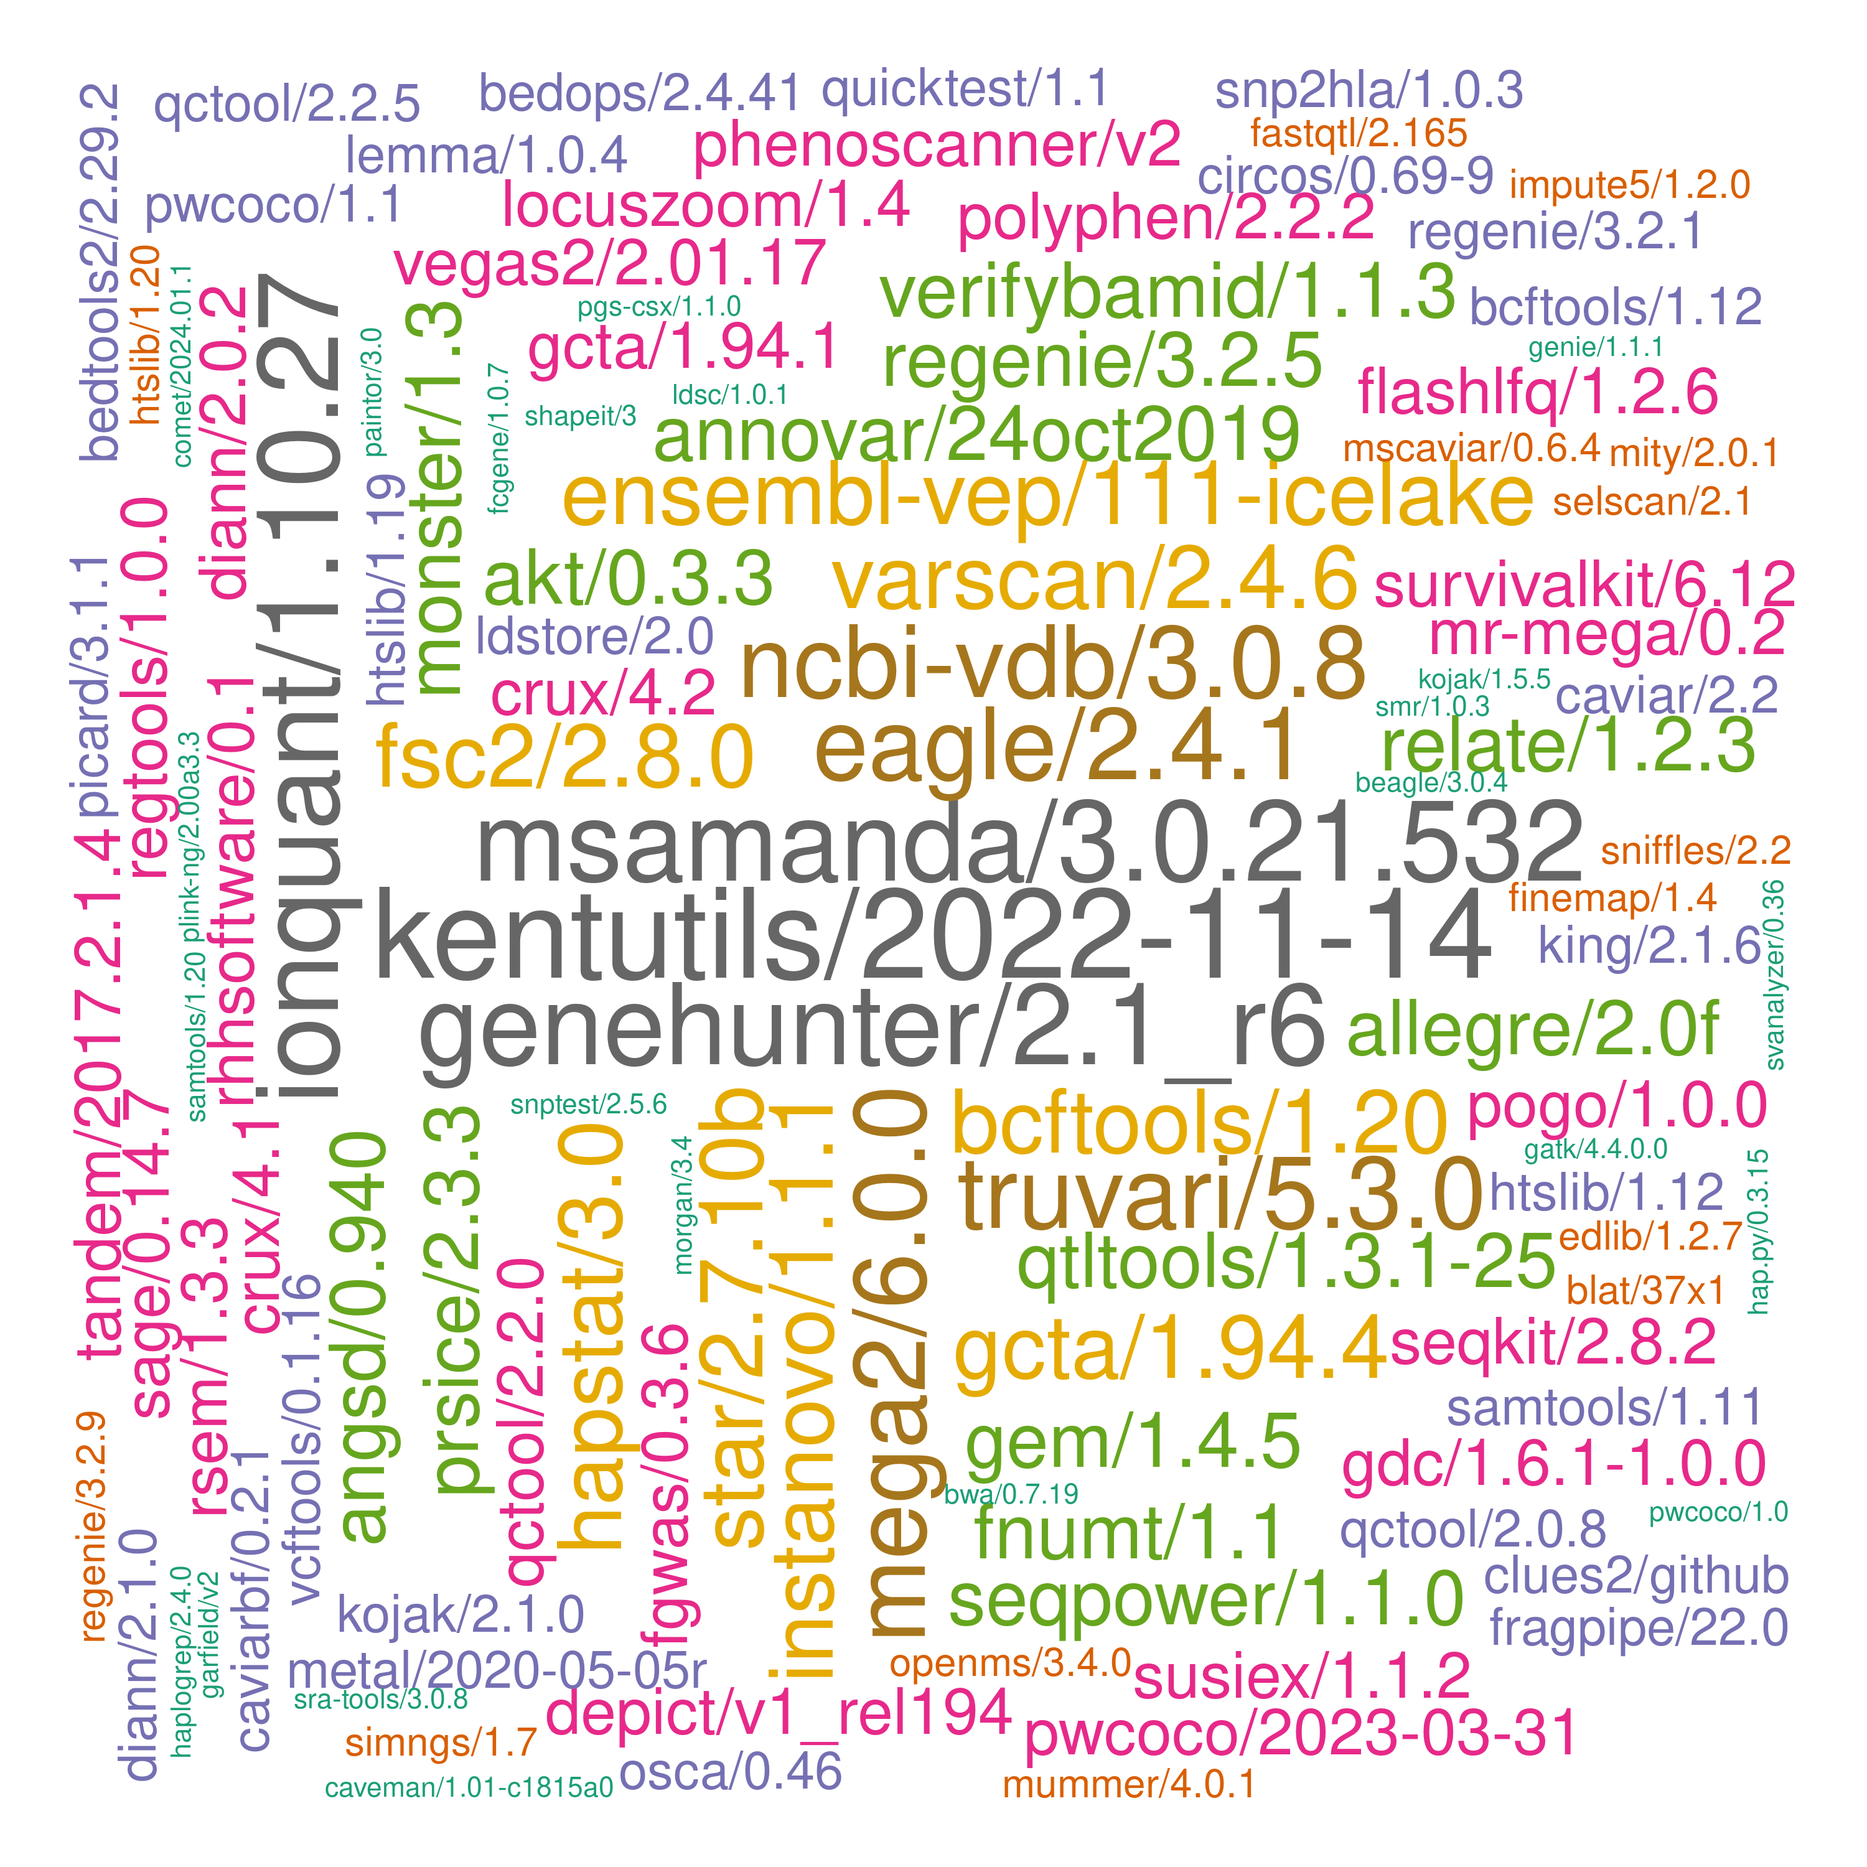
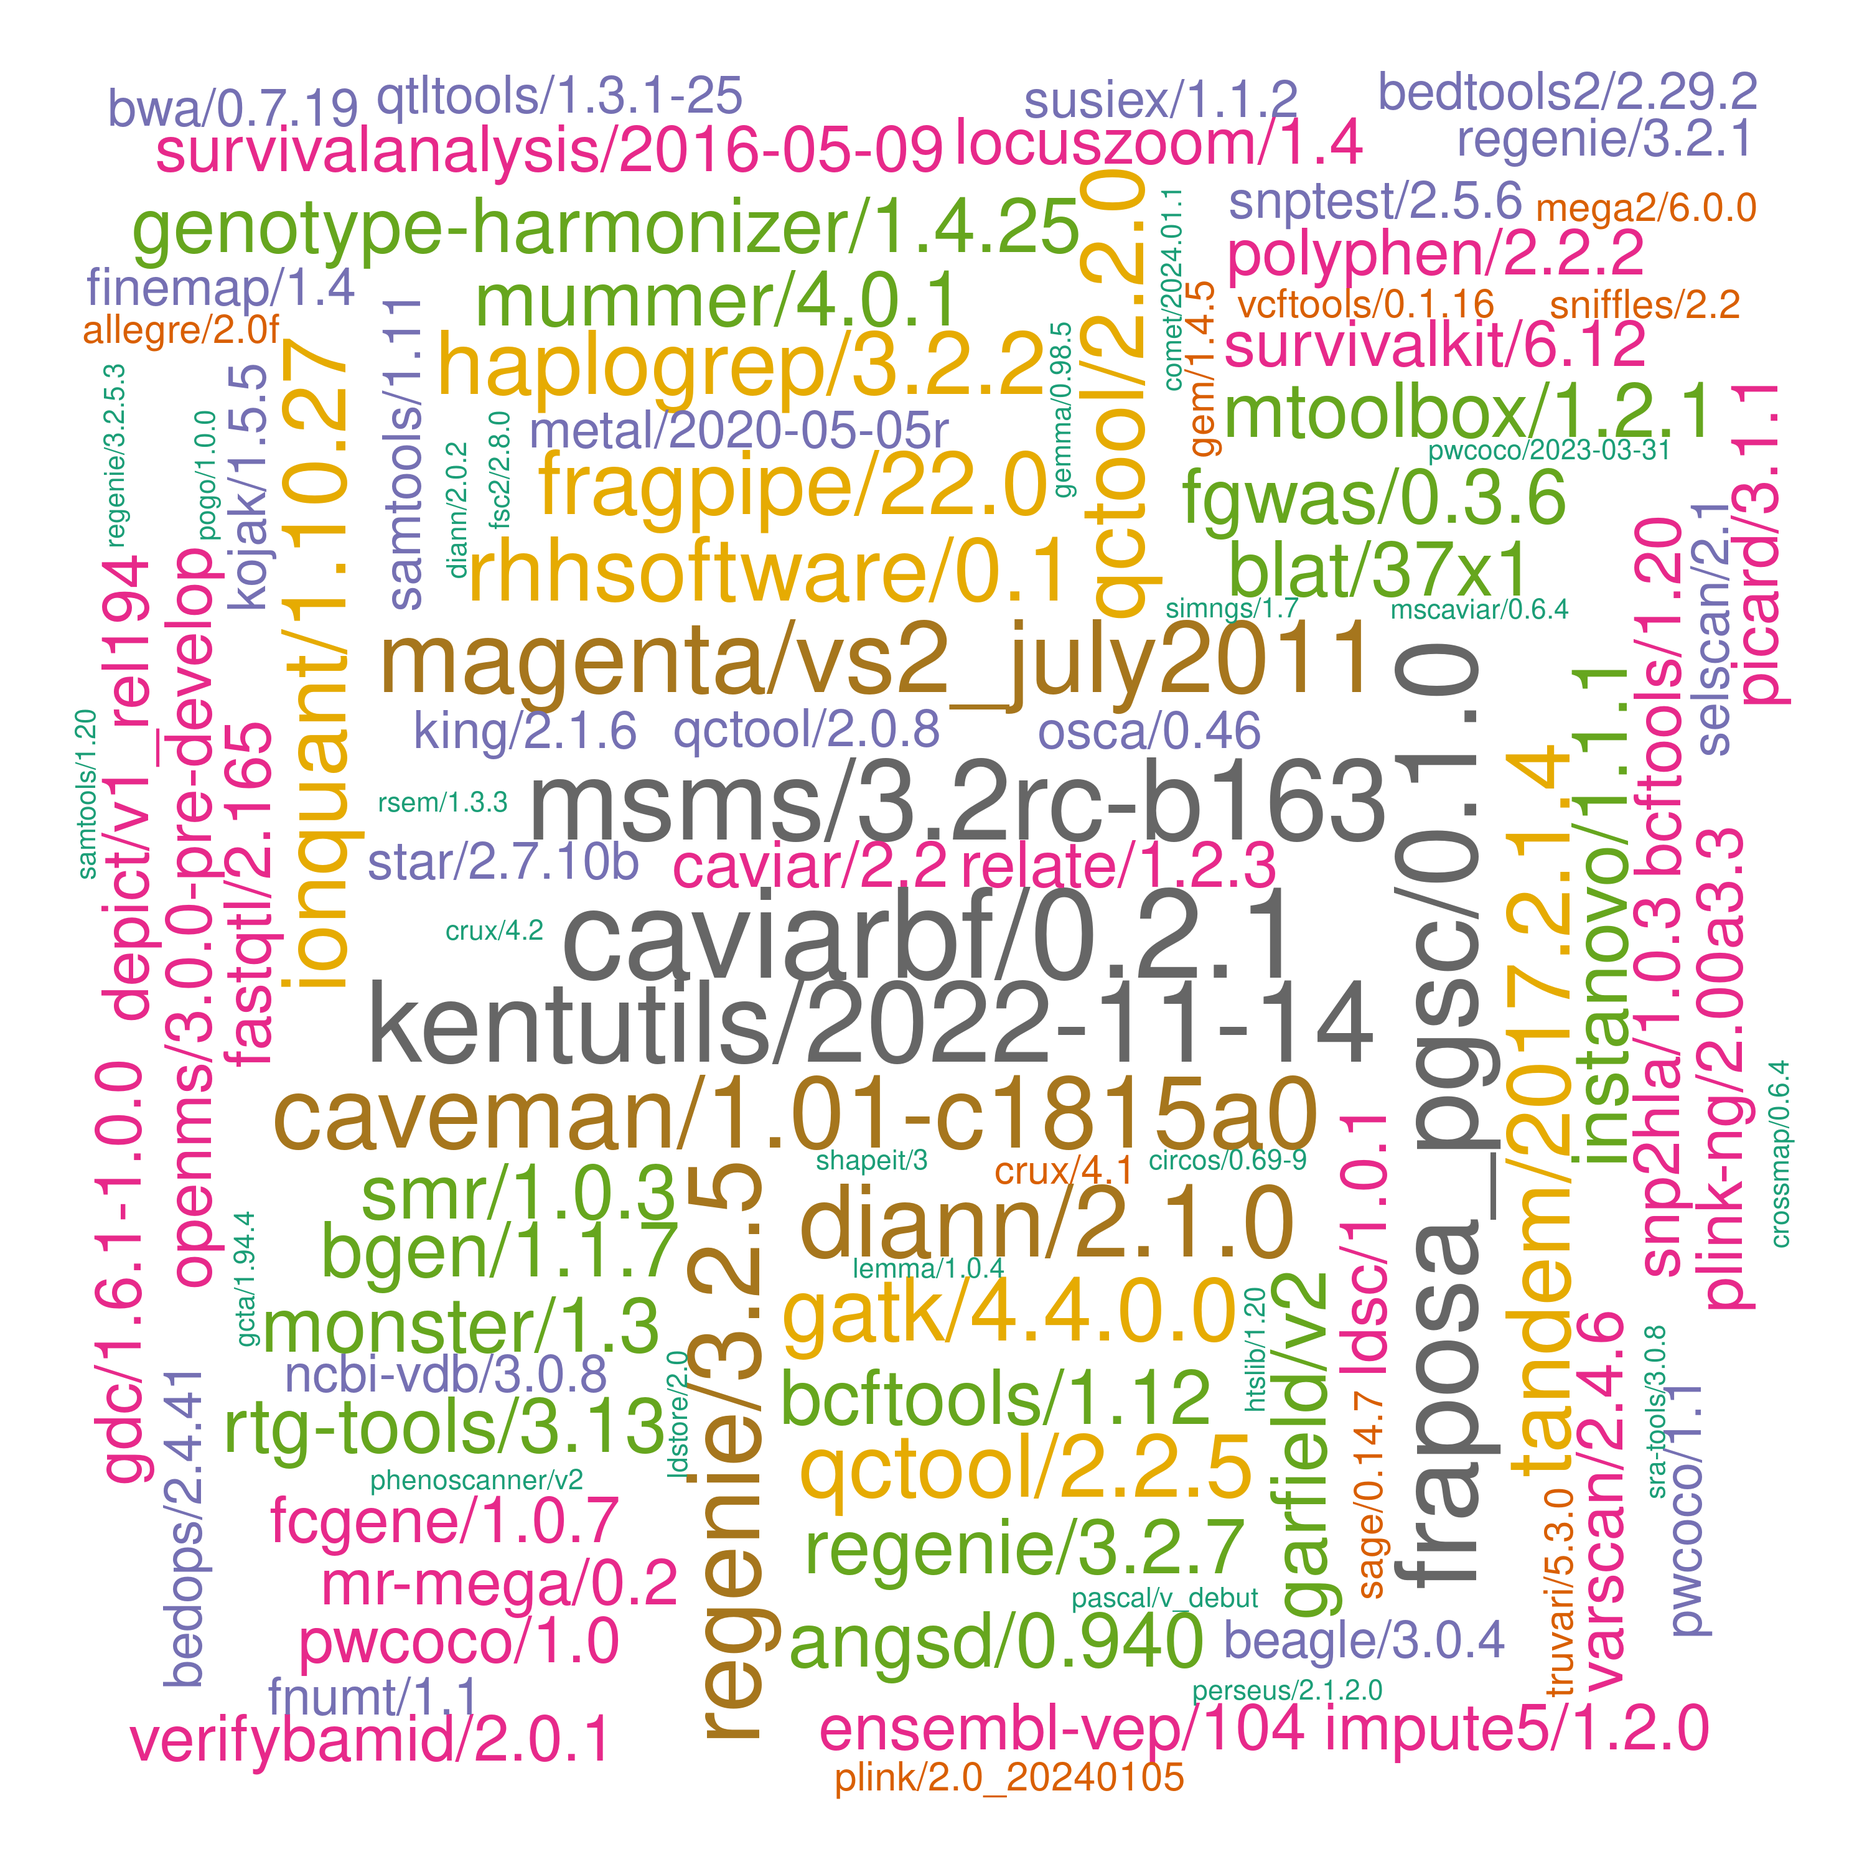
./

Changed region(s): [[0.031, 0.031, 0.961, 0.961]]

diff --git a/systems/ceuadmin.md b/systems/ceuadmin.md
@@ -39,71 +39,71 @@ The current list is as follows,
  [85] "FlashLFQ"               "flashpca"               "fly"                    "fNUMT"
  [89] "fossil"                 "fpc"                    "FragPipe"               "fraposa_pgsc"
  [93] "freesurfer"             "fribidi"                "fsc2"                   "GARFIELD"
- [97] "gatk"                   "gcc-toolset"            "gcta"                   "gdal"
-[101] "gdc"                    "geany"                  "GEM"                    "GEMMA"
-[105] "GENIE"                  "Genotype-Harmonizer"    "geos"                   "gettext"
-[109] "gh"                     "ghc"                    "ghostscript"            "git"
-[113] "git-extras"             "GitKraken"              "git-lfs"                "glib"
-[117] "glibc"                  "globusconnectpersonal"  "glpk"                   "gmp"
-[121] "gnutls"                 "go"                     "googletest"             "graphene"
-[125] "GraphicsMagick"         "GreenAlgorithms4HPC"    "gsl"                    "gsutil"
-[129] "gtk+"                   "gtksourceview"          "gtool"                  "haplogrep"
-[133] "hap.py"                 "hapstat"                "hivex"                  "hpg"
-[137] "htslib"                 "hunspell"               "icu"                    "ImageJ"
-[141] "ImageMagick"            "impute"                 "impute5"                "inetutils"
-[145] "InstaNovo"              "IonQuant"               "JabRef"                 "JAGS"
-[149] "jasper"                 "jbig2enc"               "jq"                     "json-c"
-[153] "KentUtils"              "KING"                   "kojak"                  "krb5"
-[157] "lapack"                 "ldc2"                   "ldsc"                   "LDstore"
-[161] "LEMMA"                  "leptonica"              "lib64"                  "libarchive"
-[165] "libcares"               "libgcrypt"              "libgeotiff"             "libgit2"
-[169] "libglvnd"               "libiconv"               "libidn2"                "libjpeg-turbo"
-[173] "libntlm"                "libpng"                 "libseccomp"             "libsodium"
-[177] "libssh"                 "libssh2"                "libuv"                  "libxml2"
-[181] "libxslt"                "linux"                  "llama.cpp"              "llm"
-[185] "locuszoom"              "LVM2"                   "MAGENTA"                "magma"
-[189] "Mango"                  "MaxQuant"               "Mega2"                  "metal"
-[193] "MetaMorpheus"           "micromamba"             "Miniconda3"             "miniforge3"
-[197] "mitoscape"              "mity"                   "MONSTER"                "MORGAN"
-[201] "MR-MEGA"                "msamanda"               "MsCAVIAR"               "MSFragger"
-[205] "MS-GF+"                 "msms"                   "MToolBox"               "MUMmer"
-[209] "nano"                   "nasm"                   "ncbi-vdb"               "ncurses"
-[213] "netbeans"               "nettle"                 "nextflow"               "nginx"
-[217] "NLopt"                  "node"                   "nspr"                   "ntlm"
-[221] "NUMTFinder"             "ocaml"                  "ollama"                 "oniguruma"
-[225] "opam"                   "openjdk"                "OpenMS"                 "openssh"
-[229] "openssl"                "osca"                   "p7zip-zstd"             "PAINTOR"
-[233] "pandoc"                 "pandoc-citeproc"        "pango"                  "parallel"
-[237] "Pascal"                 "patchelf"               "pcre2"                  "pdf2djvu"
-[241] "pdfjam"                 "peer"                   "Perseus"                "pgsc_calc"
-[245] "PGS-CSx"                "phenoscanner"           "PhySO"                  "picard"
-[249] "pigz"                   "pkg-config"             "plink"                  "plink-bgi"
-[253] "plinkseq"               "pngquant"               "podman"                 "PoGo"
-[257] "polyphen"               "poppler"                "popt"                   "proj"
-[261] "PRSice"                 "pspp"                   "pulsar"                 "PWCoCo"
-[265] "pwiz"                   "python"                 "qctool"                 "qemu"
-[269] "qpdf"                   "qt"                     "qtcreator"              "QTLtools"
-[273] "quarto"                 "quicktest"              "R"                      "raremetal"
-[277] "rclone"                 "readline"               "regenie"                "regtools"
-[281] "relate"                 "RHHsoftware"            "RSEM"                   "rst2pdf"
-[285] "rstudio"                "rtg-tools"              "rtmpdump"               "ruby"
-[289] "rust"                   "sage"                   "samtools"               "Scala"
-[293] "scGPT"                  "scl-utils"              "selscan"                "seqkit"
-[297] "SEQPower"               "shapeit"                "shapeit5"               "simNGS"
-[301] "singularity"            "SMR"                    "snakemake"              "sniffles"
-[305] "SNP2HLA"                "snptest"                "spread-sheet-widget"    "spyder"
-[309] "sqlite"                 "sra-tools"              "sshpass"                "ssw"
-[313] "STAR"                   "stata"                  "SurvivalAnalysis"       "SurvivalKit"
-[317] "SuSiEx"                 "SVanalyzer"             "Swift"                  "SYMPHONY"
-[321] "Synapse"                "tabix"                  "tandem"                 "tatami"
-[325] "tesseract"              "texinfo"                "ThermoRawFileParser"    "ThermoRawFileParserGUI"
-[329] "thunderbird"            "tidy"                   "tiff"                   "trinculo"
-[333] "trousers"               "truvari"                "Typora"                 "unbound"
-[337] "uv"                     "vala"                   "VarScan"                "vcftools"
-[341] "vdo"                    "VEGAS2"                 "verifyBamID"            "VirtualBox"
-[345] "VSCode"                 "VSCodium"               "vte"                    "Windsurf"
-[349] "wine"                   "wrk"                    "xpdf"                   "yaml-cpp"
-[353] "Zettlr"                 "Zotero"                 "zstd"
+ [97] "gatk"                   "gcc"                    "gcc-toolset"            "gcta"
+[101] "gdal"                   "gdc"                    "geany"                  "GEM"
+[105] "GEMMA"                  "GENIE"                  "Genotype-Harmonizer"    "geos"
+[109] "gettext"                "gh"                     "ghc"                    "ghostscript"
+[113] "git"                    "git-extras"             "GitKraken"              "git-lfs"
+[117] "glib"                   "glibc"                  "globusconnectpersonal"  "glpk"
+[121] "gmp"                    "gnutls"                 "go"                     "googletest"
+[125] "graphene"               "GraphicsMagick"         "GreenAlgorithms4HPC"    "gsl"
+[129] "gsutil"                 "gtk+"                   "gtksourceview"          "gtool"
+[133] "haplogrep"              "hap.py"                 "hapstat"                "hivex"
+[137] "hpg"                    "htslib"                 "hunspell"               "icu"
+[141] "ImageJ"                 "ImageMagick"            "impute"                 "impute5"
+[145] "inetutils"              "InstaNovo"              "IonQuant"               "JabRef"
+[149] "JAGS"                   "jasper"                 "jbig2enc"               "jq"
+[153] "json-c"                 "KentUtils"              "KING"                   "kojak"
+[157] "krb5"                   "lapack"                 "ldc2"                   "ldsc"
+[161] "LDstore"                "LEMMA"                  "leptonica"              "lib64"
+[165] "libarchive"             "libcares"               "libgcrypt"              "libgeotiff"
+[169] "libgit2"                "libglvnd"               "libiconv"               "libidn2"
+[173] "libjpeg-turbo"          "libntlm"                "libpng"                 "libseccomp"
+[177] "libsodium"              "libssh"                 "libssh2"                "libuv"
+[181] "libxml2"                "libxslt"                "linux"                  "llama.cpp"
+[185] "llm"                    "locuszoom"              "LVM2"                   "MAGENTA"
+[189] "magma"                  "Mango"                  "MaxQuant"               "Mega2"
+[193] "metal"                  "MetaMorpheus"           "micromamba"             "Miniconda3"
+[197] "miniforge3"             "mitoscape"              "mity"                   "MONSTER"
+[201] "MORGAN"                 "MR-MEGA"                "msamanda"               "MsCAVIAR"
+[205] "MSFragger"              "MS-GF+"                 "msms"                   "MToolBox"
+[209] "MUMmer"                 "nano"                   "nasm"                   "ncbi-vdb"
+[213] "ncurses"                "netbeans"               "nettle"                 "nextflow"
+[217] "nginx"                  "NLopt"                  "node"                   "nspr"
+[221] "ntlm"                   "NUMTFinder"             "ocaml"                  "ollama"
+[225] "oniguruma"              "opam"                   "openjdk"                "OpenMS"
+[229] "openssh"                "openssl"                "osca"                   "p7zip-zstd"
+[233] "PAINTOR"                "pandoc"                 "pandoc-citeproc"        "pango"
+[237] "parallel"               "Pascal"                 "patchelf"               "pcre2"
+[241] "pdf2djvu"               "pdfjam"                 "peer"                   "Perseus"
+[245] "pgsc_calc"              "PGS-CSx"                "phenoscanner"           "PhySO"
+[249] "picard"                 "pigz"                   "pkg-config"             "plink"
+[253] "plink-bgi"              "plinkseq"               "pngquant"               "podman"
+[257] "PoGo"                   "polyphen"               "poppler"                "popt"
+[261] "proj"                   "PRSice"                 "pspp"                   "pulsar"
+[265] "PWCoCo"                 "pwiz"                   "python"                 "qctool"
+[269] "qemu"                   "qpdf"                   "qt"                     "qtcreator"
+[273] "QTLtools"               "quarto"                 "quicktest"              "R"
+[277] "raremetal"              "rclone"                 "readline"               "regenie"
+[281] "regtools"               "relate"                 "RHHsoftware"            "RSEM"
+[285] "rst2pdf"                "rstudio"                "rtg-tools"              "rtmpdump"
+[289] "ruby"                   "rust"                   "sage"                   "samtools"
+[293] "Scala"                  "scGPT"                  "scl-utils"              "selscan"
+[297] "seqkit"                 "SEQPower"               "shapeit"                "shapeit5"
+[301] "simNGS"                 "singularity"            "SMR"                    "snakemake"
+[305] "sniffles"               "SNP2HLA"                "snptest"                "spread-sheet-widget"
+[309] "spyder"                 "sqlite"                 "sra-tools"              "sshpass"
+[313] "ssw"                    "STAR"                   "stata"                  "SurvivalAnalysis"
+[317] "SurvivalKit"            "SuSiEx"                 "SVanalyzer"             "Swift"
+[321] "SYMPHONY"               "Synapse"                "tabix"                  "tandem"
+[325] "tatami"                 "tesseract"              "texinfo"                "ThermoRawFileParser"
+[329] "ThermoRawFileParserGUI" "thunderbird"            "tidy"                   "tiff"
+[333] "trinculo"               "trousers"               "truvari"                "Typora"
+[337] "unbound"                "uv"                     "vala"                   "VarScan"
+[341] "vcftools"               "vdo"                    "VEGAS2"                 "verifyBamID"
+[345] "VirtualBox"             "VSCode"                 "VSCodium"               "vte"
+[349] "Windsurf"               "wine"                   "wrk"                    "xpdf"
+[353] "yaml-cpp"               "Zettlr"                 "Zotero"                 "zstd"
 ```
 
 These are wrapped up as :star::star::star: **[modules](https://modules.readthedocs.io/en/latest/index.html)** :star::star::star:.

diff --git a/systems/setup.md b/systems/setup.md
@@ -493,6 +493,7 @@ All entries are ordered chronologically.
 | 2025-10-01 | ollama/0.12.3                    | Generic               |
 | ""         | llama.cpp/b6653                  | Generic               |
 | 2025-10-02 | Windsurf/1.12.12                 | Generic               |
+| 2025-10-04 | gcc/12.1.0                       | Generic[^gcc]         |
 
 \* CEU or approved users only -- when not indicated can be found out from the folder associated with a module.
 
@@ -2060,3 +2061,26 @@ They are generated from script [setup.sh](setup.sh),
 [^delphi]: **delphi**
 
     See <https://cambridge-ceu.github.io/csd3/Python/delphi.html>.
+
+[^gcc]: **gcc**
+
+    This is furnished as follows,
+
+    ```bash
+    wget https://mirrors.kernel.org/gcc/gcc-12.1.0/gcc-12.1.0.tar.xz
+    tar xf gcc-12.1.0.tar.xz
+    cd gcc-12.1.0
+    ./contrib/download_prerequisites
+    mkdir ../gcc-build
+    cd ../gcc-build
+    ../gcc-12.1.0/configure --prefix=$CEUADMIN/gcc/12.1.0 \
+      --disable-multilib \
+      --enable-languages=c,c++ \
+      --disable-bootstrap \
+      --disable-libssp \
+      --disable-libquadmath \
+      --disable-libvtv \
+      --disable-libsanitizer
+    module load gettext/0.21/gcc/qnrcglqo
+    make -j5
+    ```
